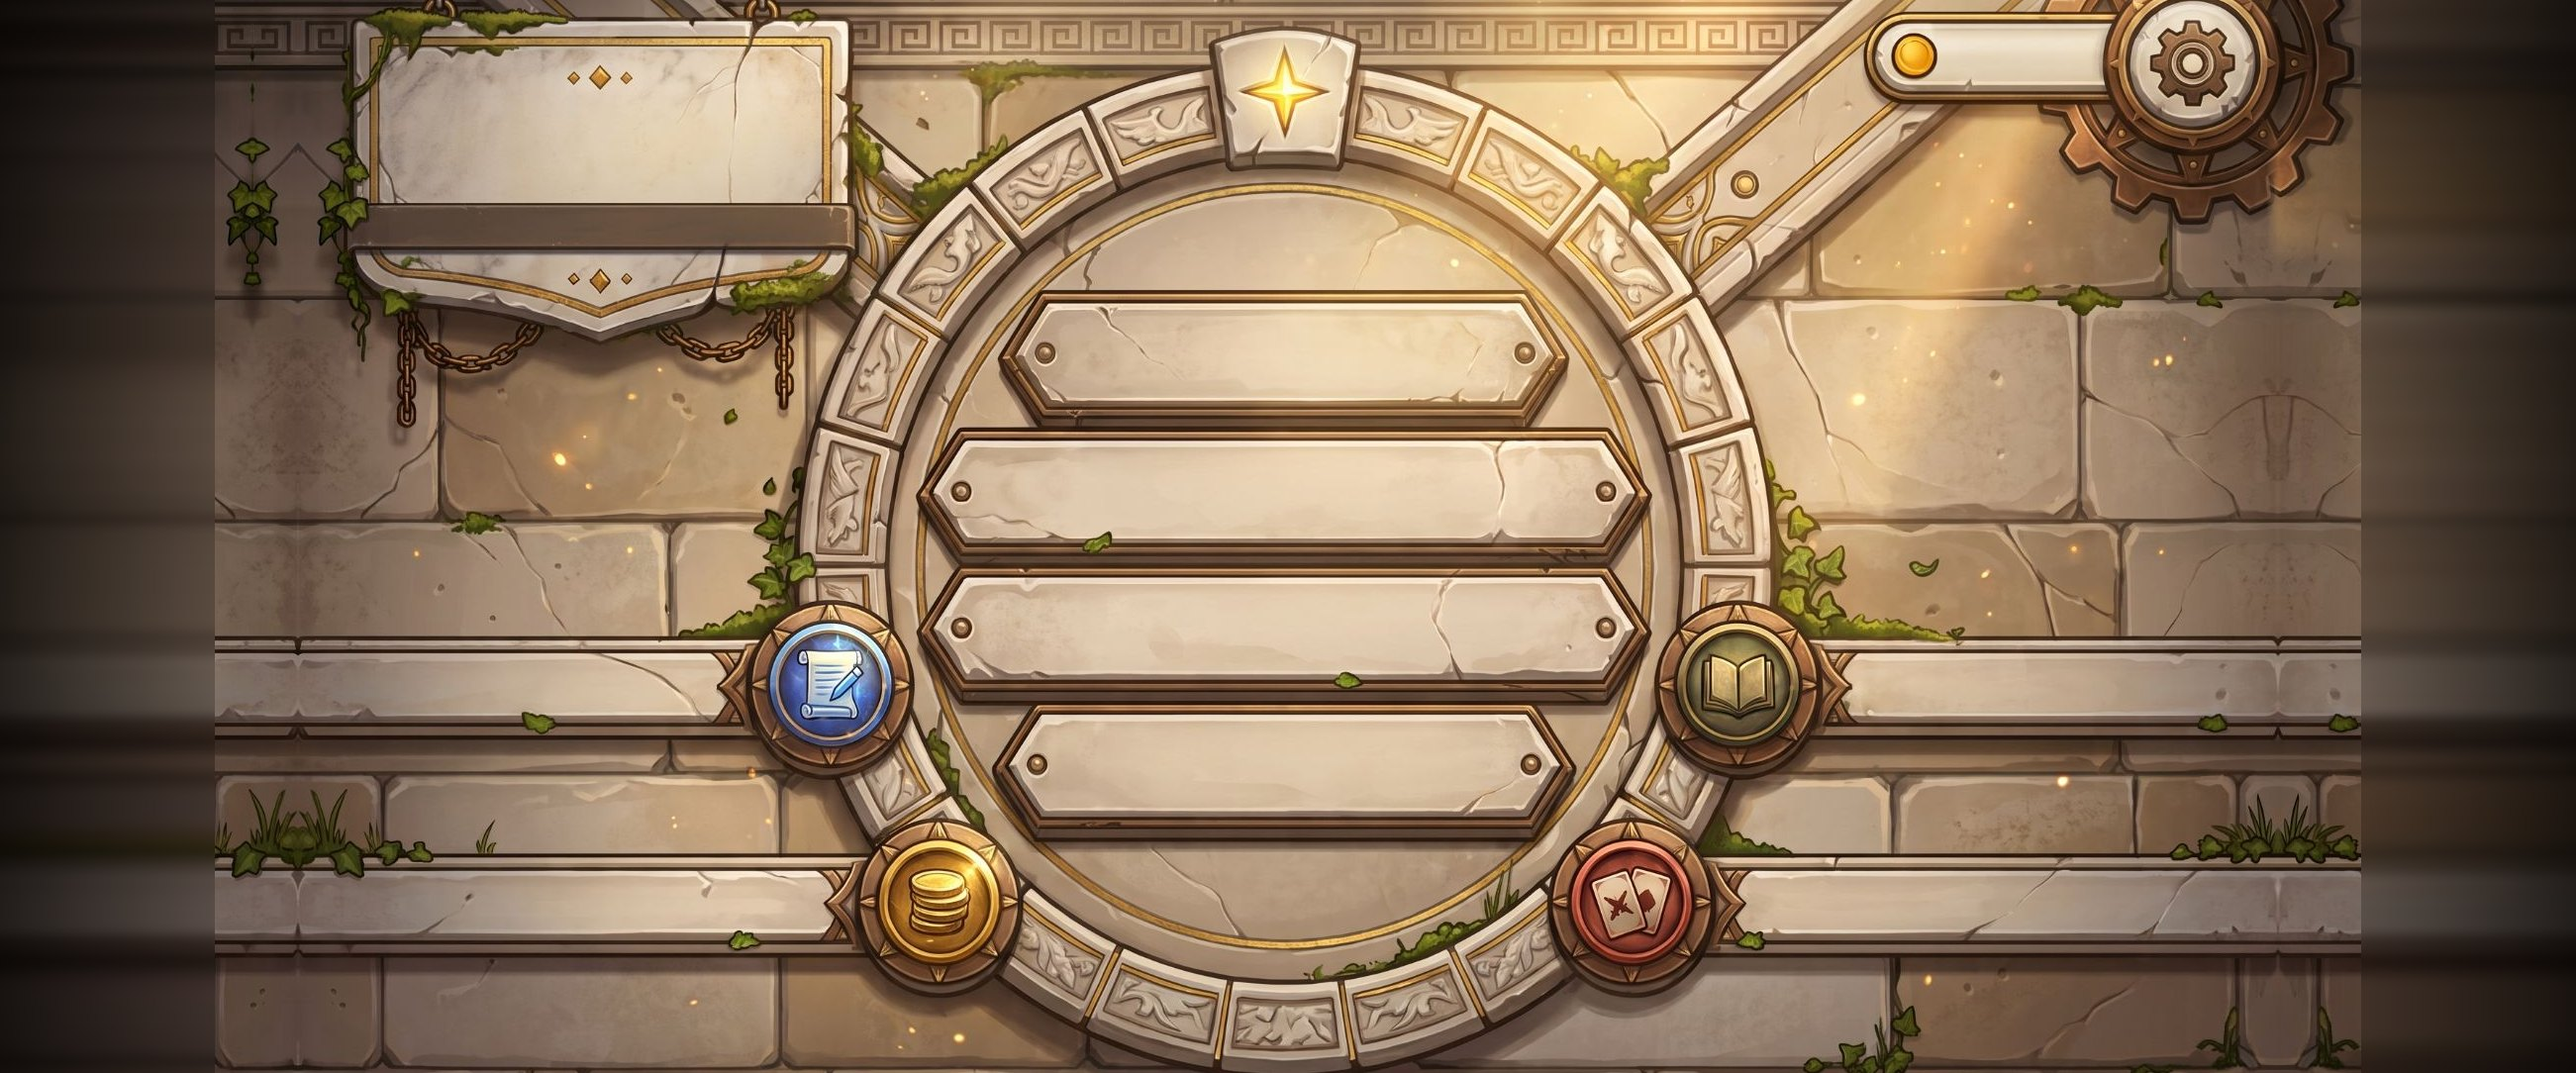
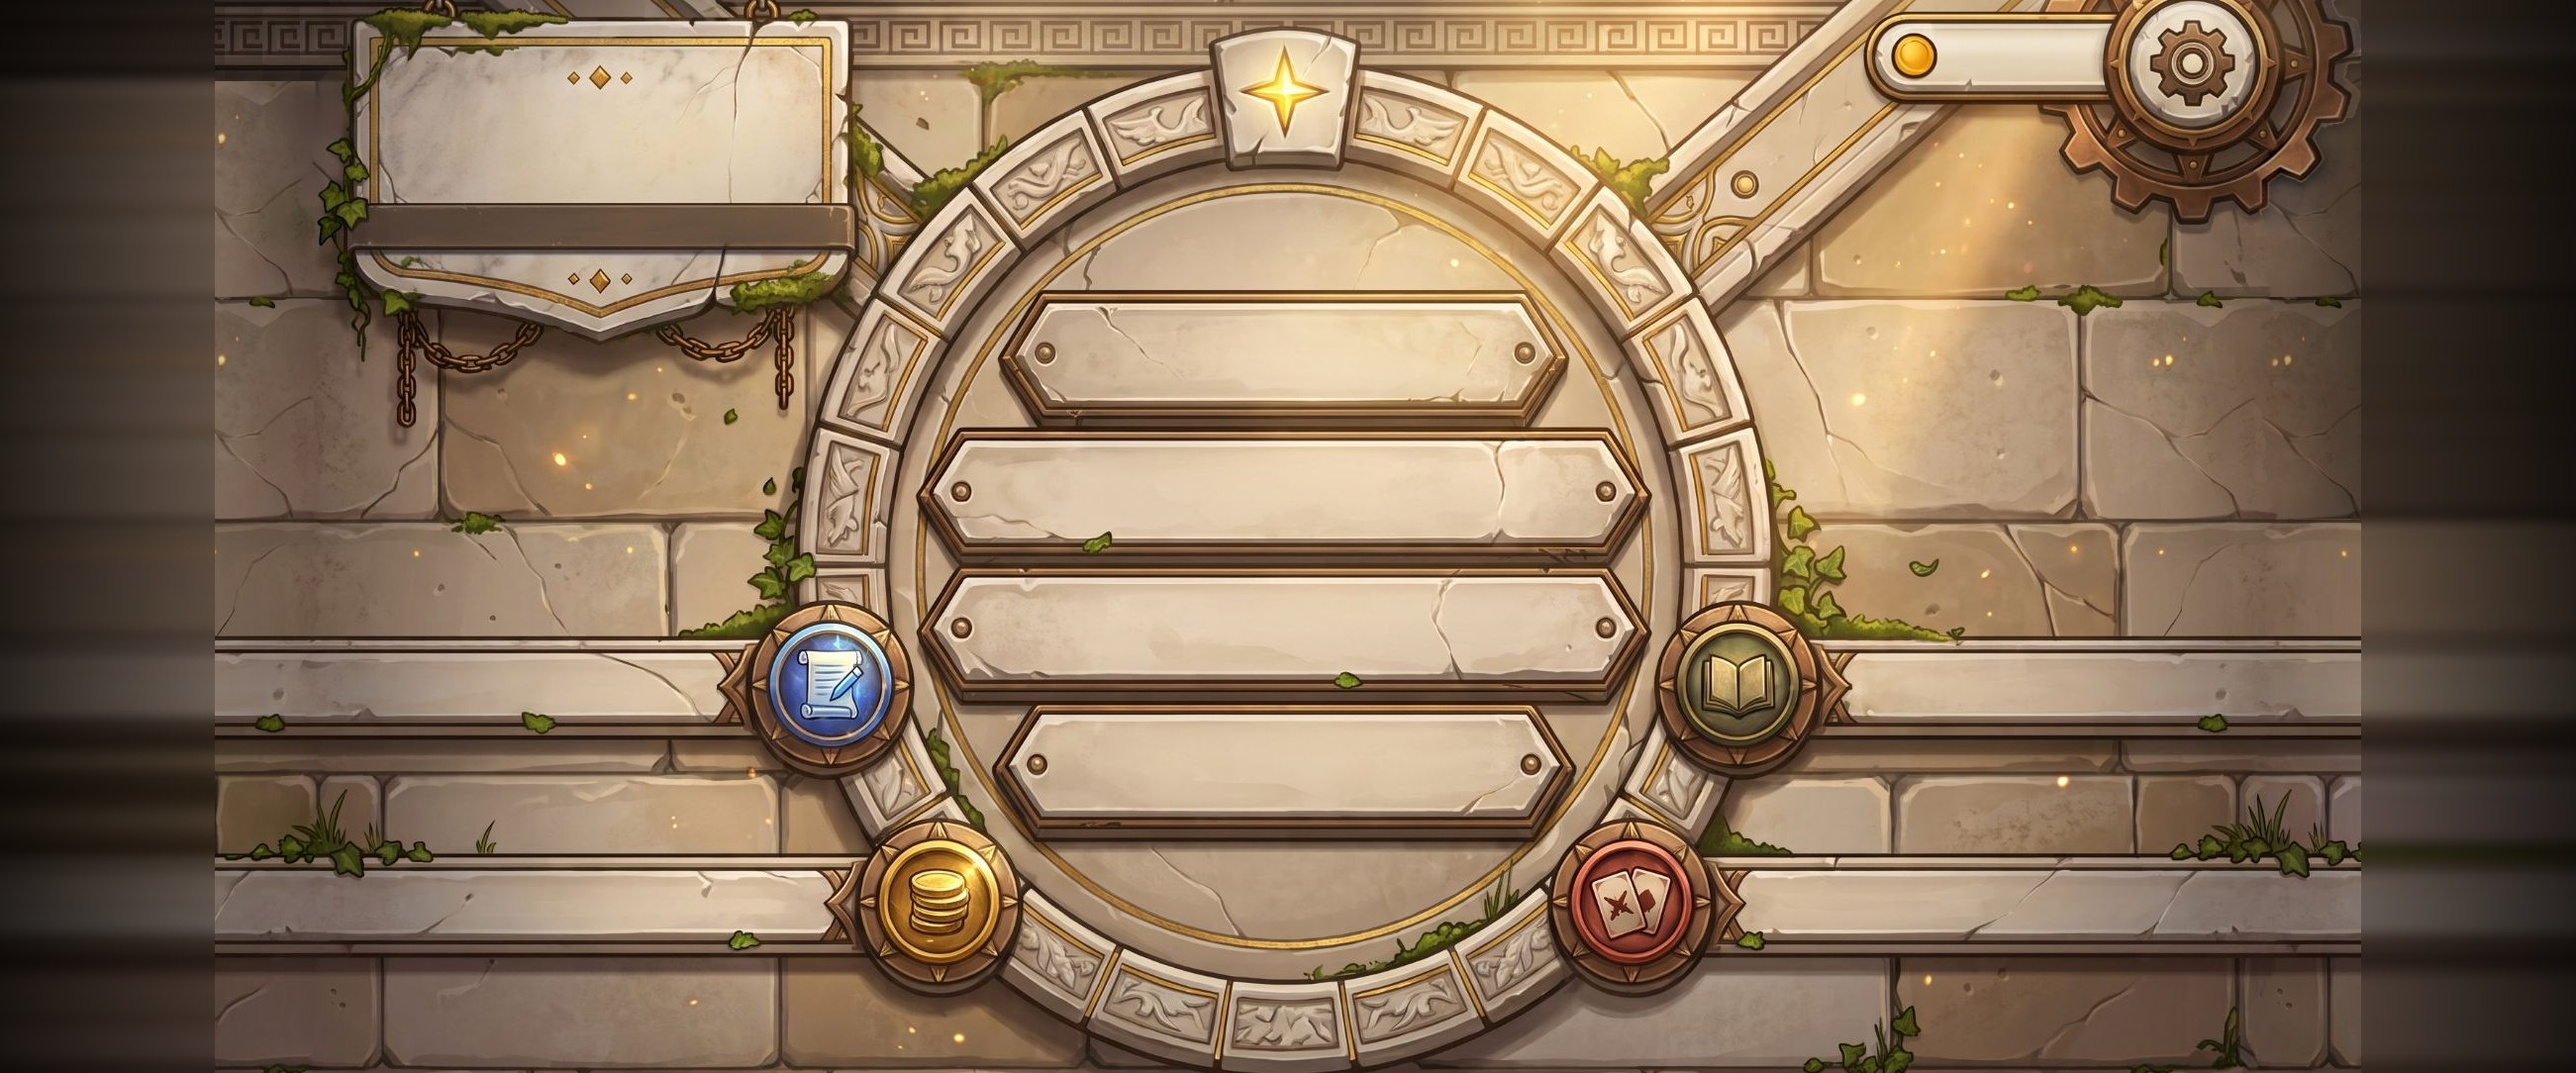
Hauptmenü: Zahnrad ohne Kerbe, Wand ohne Spiegelflecken
Rückmeldung zu 1.4.0: Das Zahnrad oben rechts hatte eine Kerbe und darunter
saß ein seltsamer Fleck auf der Wand.

- Das angeschnittene Zahnrad wurde um 90° ergänzt – bei 14 Zähnen sind das
  3,5 Zähne, Zahn traf auf Lücke. Jetzt: Speichenkranz um 2 × 45°, Zahnkranz
  um 4 Zähne gedreht (Winkel an der Bildkante gemessen), Zwischenräume zeigen
  die Wand mit weichem Schlagschatten.
- Die Wand war an der Bildkante gespiegelt (symmetrische Flecken, links auch
  bei Efeu und Balken). Jetzt wird jede Steinlage versetzt fortgesetzt, der
  Mäanderfries läuft periodisch weiter, die Naht ist ein Schnitt geringster
  Abweichung mit Helligkeitsausgleich.

Claude-Session: https://claude.ai/code/session_01RTaHpHihxCWtRxMNuJ5dsP

diff --git a/werkzeuge/hauptmenue_bild.py b/werkzeuge/hauptmenue_bild.py
@@ -3,16 +3,26 @@
 Das Konzeptbild ist 2000 × 1116 (≈ 16:9), die Bühne 2:1. Oben werden 24 px und unten 8 px
 abgeschnitten (nur Wand über dem Mäanderfries bzw. unter dem Ring). Links und rechts wird das
 Bild auf 2:1 verbreitert (je 84 px innerhalb der Bühne) und darüber hinaus bis 2,4:1 für die
-Ränder breiter Handys (je 217 px, nur dort sichtbar):
+Ränder breiter Handys (je 217 px, nur dort sichtbar).
 
-* innerhalb der Bühne: gespiegelte Fortsetzung der Wand, Fugen und Balken; oben rechts wird
-  das angeschnittene Zahnrad durch eine Drehung um seine eigene Achse ergänzt, damit der
-  Zahnrad-Knauf nicht doppelt erscheint;
-* außerhalb der Bühne: gestreckte, weichgezeichnete und abgedunkelte Randstreifen.
+Innerhalb der Bühne wird nichts gespiegelt – Spiegelungen erzeugten symmetrische Flecken auf
+der Wand und eine Kerbe im Zahnrad (Rückmeldung zu 1.4.0):
+
+* Wand: jede Steinlage (zwischen zwei waagerechten Fugen) wird waagerecht versetzt fortgesetzt.
+  Der Versatz ist so gewählt, dass die Kopie an der Bildkante am besten passt und keine
+  Medaillons, Ketten oder das Zahnrad mitnimmt. Über der obersten Fuge greift die Ergänzung
+  fugenfreie Steinfläche einer tieferen Lage ab; links läuft der Mäanderfries periodisch weiter.
+* Zahnrad oben rechts: Speichenkranz um 2 × 45° und Zahnkranz um 4 Zähne gedreht, getrennt an
+  einem glatten Ring; die Winkel sind an der Bildkante gemessen. Zwischen den Zähnen zeigt sich
+  die ergänzte Wand mit weichem Schlagschatten.
+* Naht: Schnitt geringster Abweichung durch einen 32 px breiten Überlappungsstreifen (wie beim
+  Image Quilting) und zeilenweiser Helligkeitsausgleich, der nach außen ausklingt.
+
+Außerhalb der Bühne: gestreckte, weichgezeichnete und abgedunkelte Randstreifen.
 
 Ergebnis: JPEG-Daten mit .png-Endung (die App-Hülle liefert Bilder nur als .png aus).
 Sobald eine höher aufgelöste oder breitere Fassung vorliegt (AP 1.2), dieses Skript mit der
-neuen Datei erneut ausführen und die Geometrie in app.js (HALL_ART) prüfen.
+neuen Datei erneut ausführen und die Geometrie in hall.js (ART) prüfen.
 
 Aufruf: python3 werkzeuge/hauptmenue_bild.py [konzept.jpg] [ziel.png]
 Benötigt: pip install pillow numpy
@@ -26,10 +36,20 @@ SRC = 'ungenutzte_assets/ui/hauptmenue-konzept.jpg'
 DST = 'quellcode/assets/game/assets/art/hall-aeterna.png'
 TOP, BOTTOM = 24, 8          # abgeschnittene Zeilen
 INNER, OUTER = 84, 217       # Verbreiterung je Seite: in der Bühne / nur auf breiten Handys
+OV = 32                      # Überlappung an der Bildkante für den Nahtschnitt
+JOINTS = (324, 548, 668, 768, 888, 988)   # waagerechte Fugen, an beiden Rändern gleich
+MIN_SHIFT = 120              # kleinster Versatz einer Steinlage
+# Was nie in die Ergänzung kopiert werden darf (Konzept-Pixel x0, y0, x1, y1).
+KEEP_OUT = [(55, 0, 560, 380), (95, 300, 560, 470),            # Titeltafel, Ketten
+            (490, 0, 1505, 1116),                                # Ring mit Platten
+            (451, 630, 623, 802), (561, 851, 733, 1023),       # Medaillons links
+            (1369, 630, 1541, 802), (1260, 850, 1432, 1022),   # Medaillons rechts
+            (1650, 0, 2000, 262)]                                # Goldanzeige und Zahnrad
+FRIEZE, MEANDER = (20, 106), 38       # Mäanderfries oben links: Zeilen, Periode
 COG = (1913.5, 87.5)         # Achse des angeschnittenen Zahnrads oben rechts
-SEAM = 12                    # Überblendung an der rechten Bildkante
-PLAQUE_ROWS = (380, 420)     # bis hierher hängt links die Titeltafel
-COG_ROWS = (230, 290)        # Übergang Zahnrad-Ergänzung → gespiegelte Wand
+TURN_TEETH, TURN_SPOKES = 99.5, 89.5  # vier Zähne bzw. zwei Speichen weiter (an der Kante gemessen)
+R_SPLIT, R_OUT = 124, 172    # glatter Ring zwischen Speichen und Zahnkranz, Außenradius
+DARK = 82                    # Kontur des Zahnrads (Helligkeit)
 
 
 def bilinear(a, xs, ys):
@@ -42,43 +62,120 @@ def bilinear(a, xs, ys):
             + a[y0 + 1, x0] * (1 - fx) * fy + a[y0 + 1, x0 + 1] * fx * fy)
 
 
+def blur(m, r):
+    img = Image.fromarray((np.clip(m, 0, 1) * 255).astype(np.uint8)).filter(ImageFilter.GaussianBlur(r))
+    return np.asarray(img).astype(np.float32) / 255
+
+
+def wall(a, flipped):
+    """Wand rechts neben der Kante von a (Breite OV + INNER, alle Zeilen)."""
+    h, w = a.shape[:2]
+    out = np.zeros((h, OV + INNER, 3), np.float32)
+    cols = np.arange(w - OV, w + INNER)
+    to_concept = (lambda x: w - 1 - x) if flipped else (lambda x: x)
+
+    def free(y0, y1, d):
+        xa, xb = sorted((to_concept(w - OV - d), to_concept(w + INNER - 1 - d)))
+        return not any(xa < bx1 and xb > bx0 and y0 < by1 and y1 > by0 for bx0, by0, bx1, by1 in KEEP_OUT)
+
+    rows = JOINTS + (h,)
+    for y0, y1 in zip(rows[:-1], rows[1:]):
+        edge = a[y0:y1, w - OV:w]
+        # Gewählt wird die Quelle, die an der Kante am besten passt (mindestens MIN_SHIFT entfernt,
+        # damit kein Stein direkt neben sich selbst wiederkehrt); ihre Farbe wird behutsam angeglichen.
+        cost = lambda d: ((a[y0:y1, w - OV - d:w - d] - edge) ** 2).mean()
+        d = min((d for d in range(MIN_SHIFT, w - OV) if free(y0, y1, d)), key=cost)
+        gain = np.clip(edge.mean((0, 1)) / a[y0:y1, w - OV - d:w - d].mean((0, 1)), .7, 1.3)
+        out[y0:y1] = a[y0:y1, cols - d] * gain
+    # Über der obersten Fuge: fugenfreie Steinfläche der Lage darunter. Ab Zeile 106 eine Lage
+    # tiefer (die Fuge darüber fiele auf Zeile 100, unter den Fries), darüber 330 Zeilen tiefer.
+    j, course, cut = JOINTS[0], JOINTS[1] - JOINTS[0], FRIEZE[1]
+    top = out[j + 6:j + 6 + cut + 20].copy()
+    out[cut:j] = out[cut + course:j + course]
+    t = np.linspace(0, 1, 20, dtype=np.float32)[:, None, None]
+    out[cut:cut + 20] = top[cut:] * (1 - t) + out[cut:cut + 20] * t
+    out[:cut] = top[:cut]
+    if flipped:
+        # Links oben läuft der Mäanderfries periodisch weiter.
+        f0, f1 = FRIEZE
+        src = (w - 40) + (cols - (w - 40)) % MEANDER
+        out[f0:f1] = a[f0:f1, src]
+    return out
+
+
+def gear(a):
+    """Zahnrad rechts der Kante: Farbe und Deckkraft (1 = Zahnrad, 0 = Wand dahinter)."""
+    h, w = a.shape[:2]
+    ys, xs = np.mgrid[0:h, w - OV:w + INNER].astype(np.float32)
+    dx, dy = xs - COG[0], ys - COG[1]
+    r, th = np.hypot(dx, dy), np.arctan2(dy, dx)
+
+    def turn(deg):
+        t = th + np.deg2rad(deg)
+        return bilinear(a, COG[0] + r * np.cos(t), COG[1] + r * np.sin(t))
+    k = np.clip((r - R_SPLIT + 3) / 6, 0, 1)[..., None]
+    g = turn(TURN_SPOKES) * (1 - k) + turn(TURN_TEETH) * k
+    # Wand ist, was von außen erreichbar ist, ohne die dunkle Kontur des Zahnrads zu kreuzen.
+    def grow(b):
+        o = b.copy()
+        o[1:] |= b[:-1]
+        o[:-1] |= b[1:]
+        o[:, 1:] |= b[:, :-1]
+        o[:, :-1] |= b[:, 1:]
+        return o
+    dark, outside = grow(g.mean(2) < DARK), r >= R_OUT
+    while True:
+        grown = grow(outside) & ~dark | outside
+        if (grown == outside).all():
+            break
+        outside = grown
+    return g, blur(~outside, 0.7)
+
+
+def seam(o, c):
+    """Schnitt geringster Abweichung von oben nach unten: 0 = Original, 1 = Ergänzung."""
+    e = ((o - c) ** 2).sum(2)
+    h, n = e.shape
+    acc = e.copy()
+    for y in range(1, h):
+        p = acc[y - 1]
+        acc[y] += np.minimum(p, np.minimum(np.r_[np.inf, p[:-1]], np.r_[p[1:], np.inf]))
+    path = np.zeros(h, int)
+    path[-1] = int(acc[-1].argmin())
+    for y in range(h - 2, -1, -1):
+        lo = max(0, path[y + 1] - 1)
+        path[y] = lo + int(acc[y, lo:path[y + 1] + 2].argmin())
+    return np.clip((np.arange(n)[None, :] - path[:, None] + 1.5) / 3, 0, 1)[..., None]
+
+
+def extend(a, flipped=False):
+    """Bild a nach rechts um INNER Spalten ergänzen; liefert (Kante, Ergänzung)."""
+    w = a.shape[1]
+    comp = wall(a, flipped)
+    if not flipped:
+        g, m = gear(a)
+        sel = m[:, :OV] > .9
+        g = g * (a[:, w - OV:w][sel].mean(0) / g[:, :OV][sel].mean(0))
+        shadow = np.zeros_like(m)
+        shadow[6:] = m[:-6]
+        comp = comp * (1 - .28 * blur(shadow, 5)[..., None] * (1 - m[..., None]))
+        comp = g * m[..., None] + comp * (1 - m[..., None])
+    # Helligkeitsausgleich: Abweichung an der Kante (zeilenweise geglättet) klingt nach außen aus.
+    diff = (a[:, w - OV:w - 2] - comp[:, :OV - 2]).mean(1)
+    k = np.exp(-(np.arange(-40, 41) / 16.0) ** 2)
+    diff = np.stack([np.convolve(np.pad(diff[:, c], 40, mode='edge'), k / k.sum(), 'valid') for c in range(3)], 1)
+    comp = comp + diff[:, None, :] * np.clip(1 - (np.arange(comp.shape[1]) - OV) / 70, 0, 1)[None, :, None]
+    t = seam(a[:, w - OV:], comp[:, :OV])
+    return a[:, w - OV:] * (1 - t) + comp[:, :OV] * t, comp[:, OV:]
+
+
 def build(src):
     a = np.asarray(src.convert('RGB')).astype(np.float32)
-    full_h, w = a.shape[:2]
-    a = a[TOP:full_h - BOTTOM]
-    h = a.shape[0]
-    rows = np.arange(h, dtype=np.float32)[:, None]
-
-    # Innen links: Spiegelung an x = 0. Neben der Titeltafel (ab x = 55) pendelt die Spiegelung
-    # nur über die ersten 46 Spalten, sonst erschiene ein zweiter Tafelrand.
-    k = np.arange(1, INNER + 1, dtype=np.float32)[None, :]
-    plain = np.broadcast_to(k - 1, (h, INNER))
-    period = 46
-    pingpong = np.where(plain % (2 * period) < period, plain % period, period - 1 - plain % period)
-    t = np.clip((rows + TOP - PLAQUE_ROWS[0]) / (PLAQUE_ROWS[1] - PLAQUE_ROWS[0]), 0, 1)[..., None]
-    left = (bilinear(a, pingpong, np.broadcast_to(rows, (h, INNER))) * (1 - t)
-            + bilinear(a, plain, np.broadcast_to(rows, (h, INNER))) * t)[:, ::-1]
-
-    # Innen rechts: Spiegelung an x = w, oben ersetzt durch das um 90° gedrehte Zahnrad.
-    # Die Drehung beginnt schon SEAM Spalten vor der Bildkante und wird dort eingeblendet.
-    n = INNER + SEAM
-    k = np.arange(1, n + 1, dtype=np.float32)[None, :]
-    tx = np.broadcast_to(w - 1 - SEAM + k, (h, n))
-    ty = np.broadcast_to(rows + TOP, (h, n))  # in Koordinaten des Konzeptbilds
-    mirror = bilinear(a, np.minimum(tx, 2 * w - 1 - tx), ty - TOP)
-    dx, dy = tx - COG[0], ty - COG[1]
-    turned = bilinear(a, COG[0] - dy, COG[1] + dx - TOP)
-    # Die untere Zahnradhälfte liegt im Schatten: Helligkeit an der Naht angleichen.
-    band = slice(0, COG_ROWS[0] - TOP)
-    gain = a[band, w - SEAM:w].mean() / turned[band, :SEAM].mean()
-    turned *= gain
-    t = np.clip((ty - COG_ROWS[0]) / (COG_ROWS[1] - COG_ROWS[0]), 0, 1)[..., None]
-    right = turned * (1 - t) + mirror * t
-    fade = np.clip(np.arange(n, dtype=np.float32) / SEAM, 0, 1)[None, :, None]
-    a[:, w - SEAM:] = a[:, w - SEAM:] * (1 - fade[:, :SEAM]) + right[:, :SEAM] * fade[:, :SEAM]
-    right = right[:, SEAM:]
-
-    inner = np.concatenate([left, a, right], axis=1)
+    edge_r, right = extend(a)
+    edge_l, left = extend(a[:, ::-1].copy(), flipped=True)
+    a[:, a.shape[1] - OV:] = edge_r
+    a[:, :OV] = edge_l[:, ::-1]
+    inner = np.concatenate([left[:, ::-1], a, right], axis=1)[TOP:a.shape[0] - BOTTOM]
     iw = inner.shape[1]
 
     # Leichte Randabdunklung zur Bühnenkante hin, damit die Ergänzung nicht ins Auge springt.
